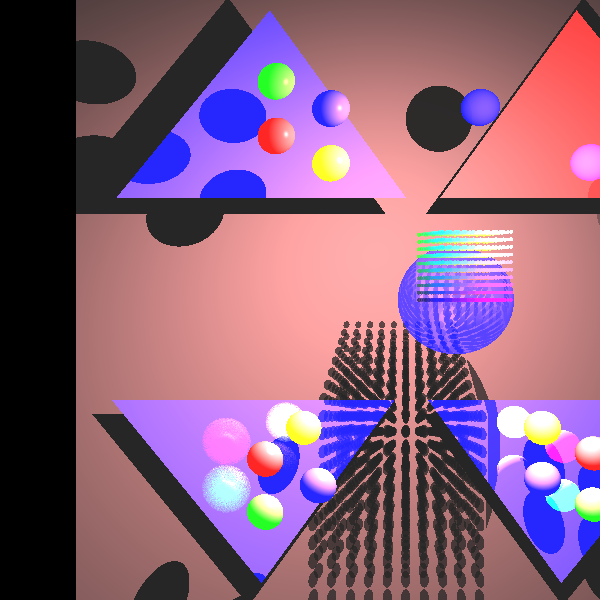
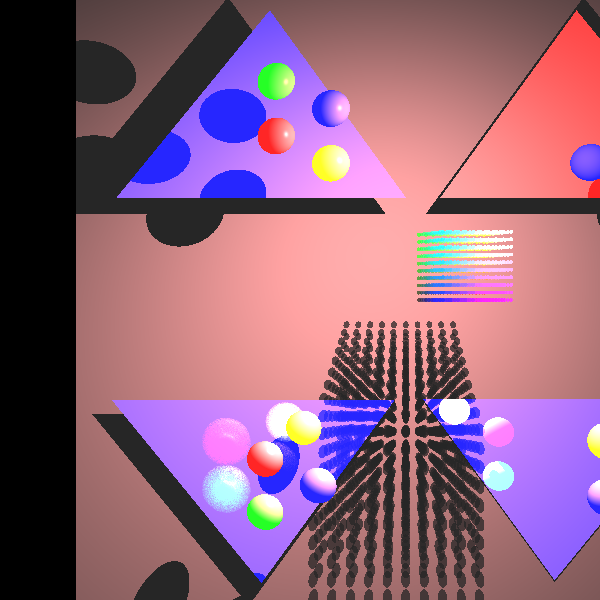
final changes
db

diff --git a/unittests/geometries/BoundingBoxTest.java b/unittests/geometries/BoundingBoxTest.java
@@ -18,94 +18,6 @@ public class BoundingBoxTest {
     private Scene scene = new Scene.Builder("Test scene").build();
 
 
-    /**
-     * WE ADDED THIS TEST!!!
-     */
-//    @Test
-//    public void ourNewTest() {
-//        Camera camera = new Camera(new Point(0, 0, 1000), new Vector(0, 0, -1), new Vector(0, 1, 0)) //
-//                .setVPSize(200, 200).setVPDistance(500);
-//
-//        scene.ambientLight = (new AmbientLight(new Color(WHITE), new Double3(0.15)));
-//        scene.lights.add(new SpotLight(new Vector(0, -1, -1), new Point(0, 100, 100), new Color(700, 400, 400)
-//        ));
-//
-//
-//        double radius_of_circle = 30d;
-//        double distance_btw_circle_and_background = -80;
-//        //background triangles...
-//        Point A = new Point(200, -200, distance_btw_circle_and_background);
-//        Point B = new Point(-200, -200, distance_btw_circle_and_background);
-//        Point C = new Point(200, 200, distance_btw_circle_and_background);
-//        Point D = new Point(-200, 200, distance_btw_circle_and_background);
-//
-//        Sphere sphere1 = new Sphere(radius_of_circle, new Point(0, 0, 0));
-//        Geometry sphere1geometryForm = sphere1.setEmission(new Color(BLUE))
-//                .setMaterial(new Material().setKd(0.2).setKs(0.2).setShininess(10).setKt(0.5));
-//
-//
-//        Box box = new Box(sphere1);
-//        List<Geometry> res = new LinkedList();
-////        for (Point boxPoint: box.vertices
-////             ) {
-////            res.add(new Sphere(5, boxPoint).setEmission(new Color(0, 255, 0))
-////                    .setMaterial(new Material().setKd(0.2).setKs(0.2).setShininess(10).setKt(0.5)));
-////        }
-//
-//        scene.geometries.add( //
-//
-//                //background triangles...
-//                new Triangle(A, B, C).setEmission(new Color(BLACK))
-//                        .setMaterial(new Material().setKd(.2).setKs(.2).setShininess(1)),
-//                new Triangle(D, B, C).setEmission(new Color(BLACK))
-//                        .setMaterial(new Material().setKd(.2).setKs(.2).setShininess(1)),
-//
-////                new Parallelogram(A, B, C).setEmission(new Color(0, 255, 0))
-////                        .setMaterial(new Material().setKd(.2).setKs(.2).setShininess(1)),
-//
-//
-//                //sphere#1 - partly transparent, low specular
-//                sphere1geometryForm
-//
-//                //box's vertices:
-////                res.get(0),
-////                res.get(1),
-////                res.get(2),
-////                res.get(3),
-////                res.get(4),
-////                res.get(5),
-////                res.get(6),
-////                res.get(7)
-//
-//                );
-//
-//
-//        ImageWriter imageWriter = new ImageWriter("BoxTest", 600, 600);
-//        camera.setImageWriter(imageWriter) //
-//                .setRayTracer(new RayTracerBasic(scene)) //
-//                .renderImage() //
-//                .writeToImage();
-//
-//        ImageWriter imageWriter2 = new ImageWriter("BoxTest_from_left", 600, 600);
-//        camera.resetP0(new Point(-300, 0, 800));
-//        //camera.rotateAroundZ(40);
-//        camera.rotateAroundY(-15);
-//        camera.setImageWriter(imageWriter2) //
-//                .setRayTracer(new RayTracerBasic(scene)) //
-//                .renderImage() //
-//                .writeToImage();
-//
-//        ImageWriter imageWriter3 = new ImageWriter("BoxTest_from_right", 600, 600);
-//        camera.resetP0(new Point(450, 0, 900));
-//        camera.rotateAroundY(40);
-//        camera.setImageWriter(imageWriter3) //
-//                .setRayTracer(new RayTracerBasic(scene)) //
-//                .renderImage() //
-//                .writeToImage();
-//
-//
-//
-//    }
 
     @Test
     public void ourNewTest() {
@@ -174,29 +86,29 @@ public class BoundingBoxTest {
 
         );
 
-
-        ImageWriter imageWriter = new ImageWriter("BoxTest", 600, 600);
-        camera.setImageWriter(imageWriter) //
-                .setRayTracer(new RayTracerBasic(scene)) //
-                .renderImage() //
-                .writeToImage();
-
-        ImageWriter imageWriter2 = new ImageWriter("BoxTest_from_left", 600, 600);
-        camera.resetP0(new Point(-300, 0, 800));
-        //camera.rotateAroundZ(40);
-        camera.rotateAroundY(-15);
-        camera.setImageWriter(imageWriter2) //
-                .setRayTracer(new RayTracerBasic(scene)) //
-                .renderImage() //
-                .writeToImage();
-
-        ImageWriter imageWriter3 = new ImageWriter("BoxTest_from_right", 600, 600);
-        camera.resetP0(new Point(450, 0, 900));
-        camera.rotateAroundY(40);
-        camera.setImageWriter(imageWriter3) //
-                .setRayTracer(new RayTracerBasic(scene)) //
-                .renderImage() //
-                .writeToImage();
+//
+//        ImageWriter imageWriter = new ImageWriter("BoxTest", 600, 600);
+//        camera.setImageWriter(imageWriter) //
+//                .setRayTracer(new RayTracerBasic(scene)) //
+//                .renderImage() //
+//                .writeToImage();
+//
+//        ImageWriter imageWriter2 = new ImageWriter("BoxTest_from_left", 600, 600);
+//        camera.resetP0(new Point(-300, 0, 800));
+//        //camera.rotateAroundZ(40);
+//        camera.rotateAroundY(-15);
+//        camera.setImageWriter(imageWriter2) //
+//                .setRayTracer(new RayTracerBasic(scene)) //
+//                .renderImage() //
+//                .writeToImage();
+//
+//        ImageWriter imageWriter3 = new ImageWriter("BoxTest_from_right", 600, 600);
+//        camera.resetP0(new Point(450, 0, 900));
+//        camera.rotateAroundY(40);
+//        camera.setImageWriter(imageWriter3) //
+//                .setRayTracer(new RayTracerBasic(scene)) //
+//                .renderImage() //
+//                .writeToImage();
 
 
 

diff --git a/unittests/special/AllEfectsTest.java b/unittests/special/AllEfectsTest.java
@@ -64,11 +64,11 @@ public class AllEfectsTest {
         int diff_color = 20;
         int radius_sphere = 1;
         Point p = new Point(-20, 0, 0);
-        List<Intersectable> lst = new LinkedList<>();
+        List<Intersectable> CubeOfCirlces = new LinkedList<>();
         for (int i = 0; i < numRows; i++) {
             for (int j = 0; j < numRows; j++) {
                 for (int k = 0; k < numRows; k++) {
-                   lst.add(
+                   CubeOfCirlces.add(
                            new Sphere(radius_sphere, new Point(p.xyz.d1 + i*distance, p.xyz.d2 + j*distance, p.xyz.d3 + k*distance))
                                    .setEmission(new Color(i*diff_color, j*diff_color, k*diff_color))
                                    .setMaterial(new Material().setKt(.5))
@@ -90,10 +90,10 @@ public class AllEfectsTest {
                 new Triangle(D, B, C).setEmission(new Color(BLACK))
                         .setMaterial(new Material().setKd(.2).setKs(.2).setShininess(1)),
                 //sphere#1 - partly transparent, low specular
-                new Sphere(radius_of_circle, new Point(0, 0, 0)).setEmission(new Color(BLUE))
-                        .setMaterial(new Material().setKd(0.2).setKs(0.2).setShininess(10).setKt(0.5)),
+//                new Sphere(radius_of_circle, new Point(0, 0, 0)).setEmission(new Color(BLUE))
+//                        .setMaterial(new Material().setKd(0.2).setKs(0.2).setShininess(10).setKt(0.5)),
 
-                new BoundingBox(new Geometries(lst)),
+                new BoundingBox(new Geometries(CubeOfCirlces)),
                 //new Geometries(lst),
 
 
@@ -101,19 +101,16 @@ public class AllEfectsTest {
 
                 //sphere#3
                 new Sphere(radius_of_circle2, new Point(100, 120, 10)).setEmission(new Color(BLUE))
-                        .setMaterial(new Material().setKd(0.2).setKs(0).setShininess(0).setKt(0.8)),
+                        .setMaterial(new Material().setKd(0.2).setKs(0).setShininess(0).setKt(0.4)),
                 //sphere#4
                 new Sphere(radius_of_circle2, new Point(100, 90, 10)).setEmission(new Color(BLUE))
                         .setMaterial(new Material().setKd(0.2).setKs(0).setShininess(0).setKt(0.8)),
-                //sphere#5
-                new Sphere(radius_of_circle2, new Point(10, 105, 10)).setEmission(new Color(BLUE))
-                        .setMaterial(new Material().setKd(0.2).setKs(0).setShininess(0).setKt(0.2)),
+//                //sphere#5
+//                new Sphere(radius_of_circle2, new Point(10, 105, 10)).setEmission(new Color(BLUE))
+//                        .setMaterial(new Material().setKd(0.2).setKs(0).setShininess(0).setKt(0.2)),
                 //sphere#6
                 new Sphere(radius_of_circle2, new Point(70, 75, 10)).setEmission(new Color(BLUE))
-                        .setMaterial(new Material().setKd(0.2).setKs(0).setShininess(0).setKt(0.8)),
-
-
-
+                        .setMaterial(new Material().setKd(0.2).setKs(0).setShininess(0).setKt(0)),
 
                 //triangle behind them
                 new Triangle(new Point(10, 60, -50), new Point(90, 170, -50), new Point(180, 60, -50))
@@ -164,21 +161,21 @@ public class AllEfectsTest {
 
                 //SPHERE 15, 16, 17, 18 ARE DOWN RIGHT
                 //sphere#15
-                new Sphere(radius_of_circle2, new Point(70, -75, -50)).setEmission(new Color(YELLOW))
+                new Sphere(radius_of_circle2, new Point(70, -75, 30)).setEmission(new Color(YELLOW))
                         .setMaterial(new Material().setKd(0.7).setKs(0.5).setShininess(30)),
                 //sphere#16
-                new Sphere(radius_of_circle2, new Point(100, -120, -50)).setEmission(new Color(GREEN))
+                new Sphere(radius_of_circle2, new Point(100, -120, 30)).setEmission(new Color(GREEN))
                         .setMaterial(new Material().setKd(0.7).setKs(0.5).setShininess(30)),
                 //sphere#17
-                new Sphere(radius_of_circle2, new Point(100, -90, -50)).setEmission(new Color(RED))
+                new Sphere(radius_of_circle2, new Point(100, -90, 30)).setEmission(new Color(RED))
                         .setMaterial(new Material().setKd(0.7).setKs(0.5).setShininess(30)),
                 //sphere#18
-                new Sphere(radius_of_circle2, new Point(70, -105, -50)).setEmission(new Color(BLUE))
+                new Sphere(radius_of_circle2, new Point(70, -105, 30)).setEmission(new Color(BLUE))
                         .setMaterial(new Material().setKd(0.7).setKs(0.5).setShininess(30)),
 
 
                 //triangle behind them
-                new Triangle(new Point(10, -60, -70), new Point(90, -170, -70), new Point(180, -60, -70))
+                new Triangle(new Point(10, -60, -79), new Point(90, -170, -79), new Point(180, -60, -79))
                         .setEmission(new Color(BLUE))
                         .setMaterial(new Material().setKd(.2).setKs(.2).setShininess(1).setKr(1))
 

diff --git a/src/geometries/Parallelogram.java b/src/geometries/Parallelogram.java
@@ -44,10 +44,6 @@ public class Parallelogram extends Geometry{
         if(res == null)
             return tri2.findGeoIntersectionsHelper(ray);
         else
-            if(res.isEmpty())
-            {
-                int d = 5;
-            }
             return res;
     }
 

diff --git a/src/geometries/BoundingBox.java b/src/geometries/BoundingBox.java
@@ -156,8 +156,6 @@ public class BoundingBox extends Geometry{
         return this;
     }
 
-
-
     @Override
     public List<GeoPoint> findGeoIntersectionsHelper(Ray _ray) {
 
